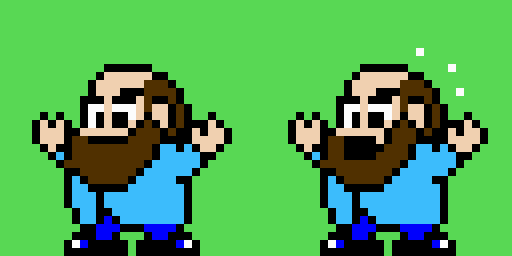
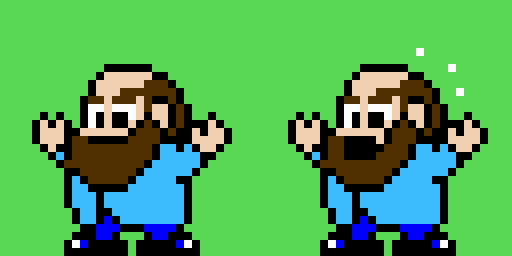
Added Revers and edited Light portraits

Changed region(s): [[0.6562, 0.3438, 0.7812, 0.4062], [0.1562, 0.3438, 0.2812, 0.4062]]

diff --git a/assets/javascript/app.js b/assets/javascript/app.js
@@ -454,7 +454,7 @@ const about1 = new Block(
 
 const about2 = new Block(
     "about2",
-    "url('./assets/images/HigginsPortrait.png')",
+    "url('./assets/images/ToudouPortrait.png')",
     "jeff2",
     "left",
     [
@@ -477,7 +477,7 @@ const about3 = new Block(
 
 const about4 = new Block(
     "about4",
-    "url('./assets/images/ToudouPortrait.png')",
+    "url('./assets/images/HigginsPortrait.png')",
     "jeff4",
     "left",
     [
@@ -489,7 +489,7 @@ const about4 = new Block(
 
 const about5 = new Block(
     "about5",
-    "url('./assets/images/JLHBitPortrait.png')",
+    "url('./assets/images/ReversePortrait.png')",
     "jeff5",
     "right",
     [
